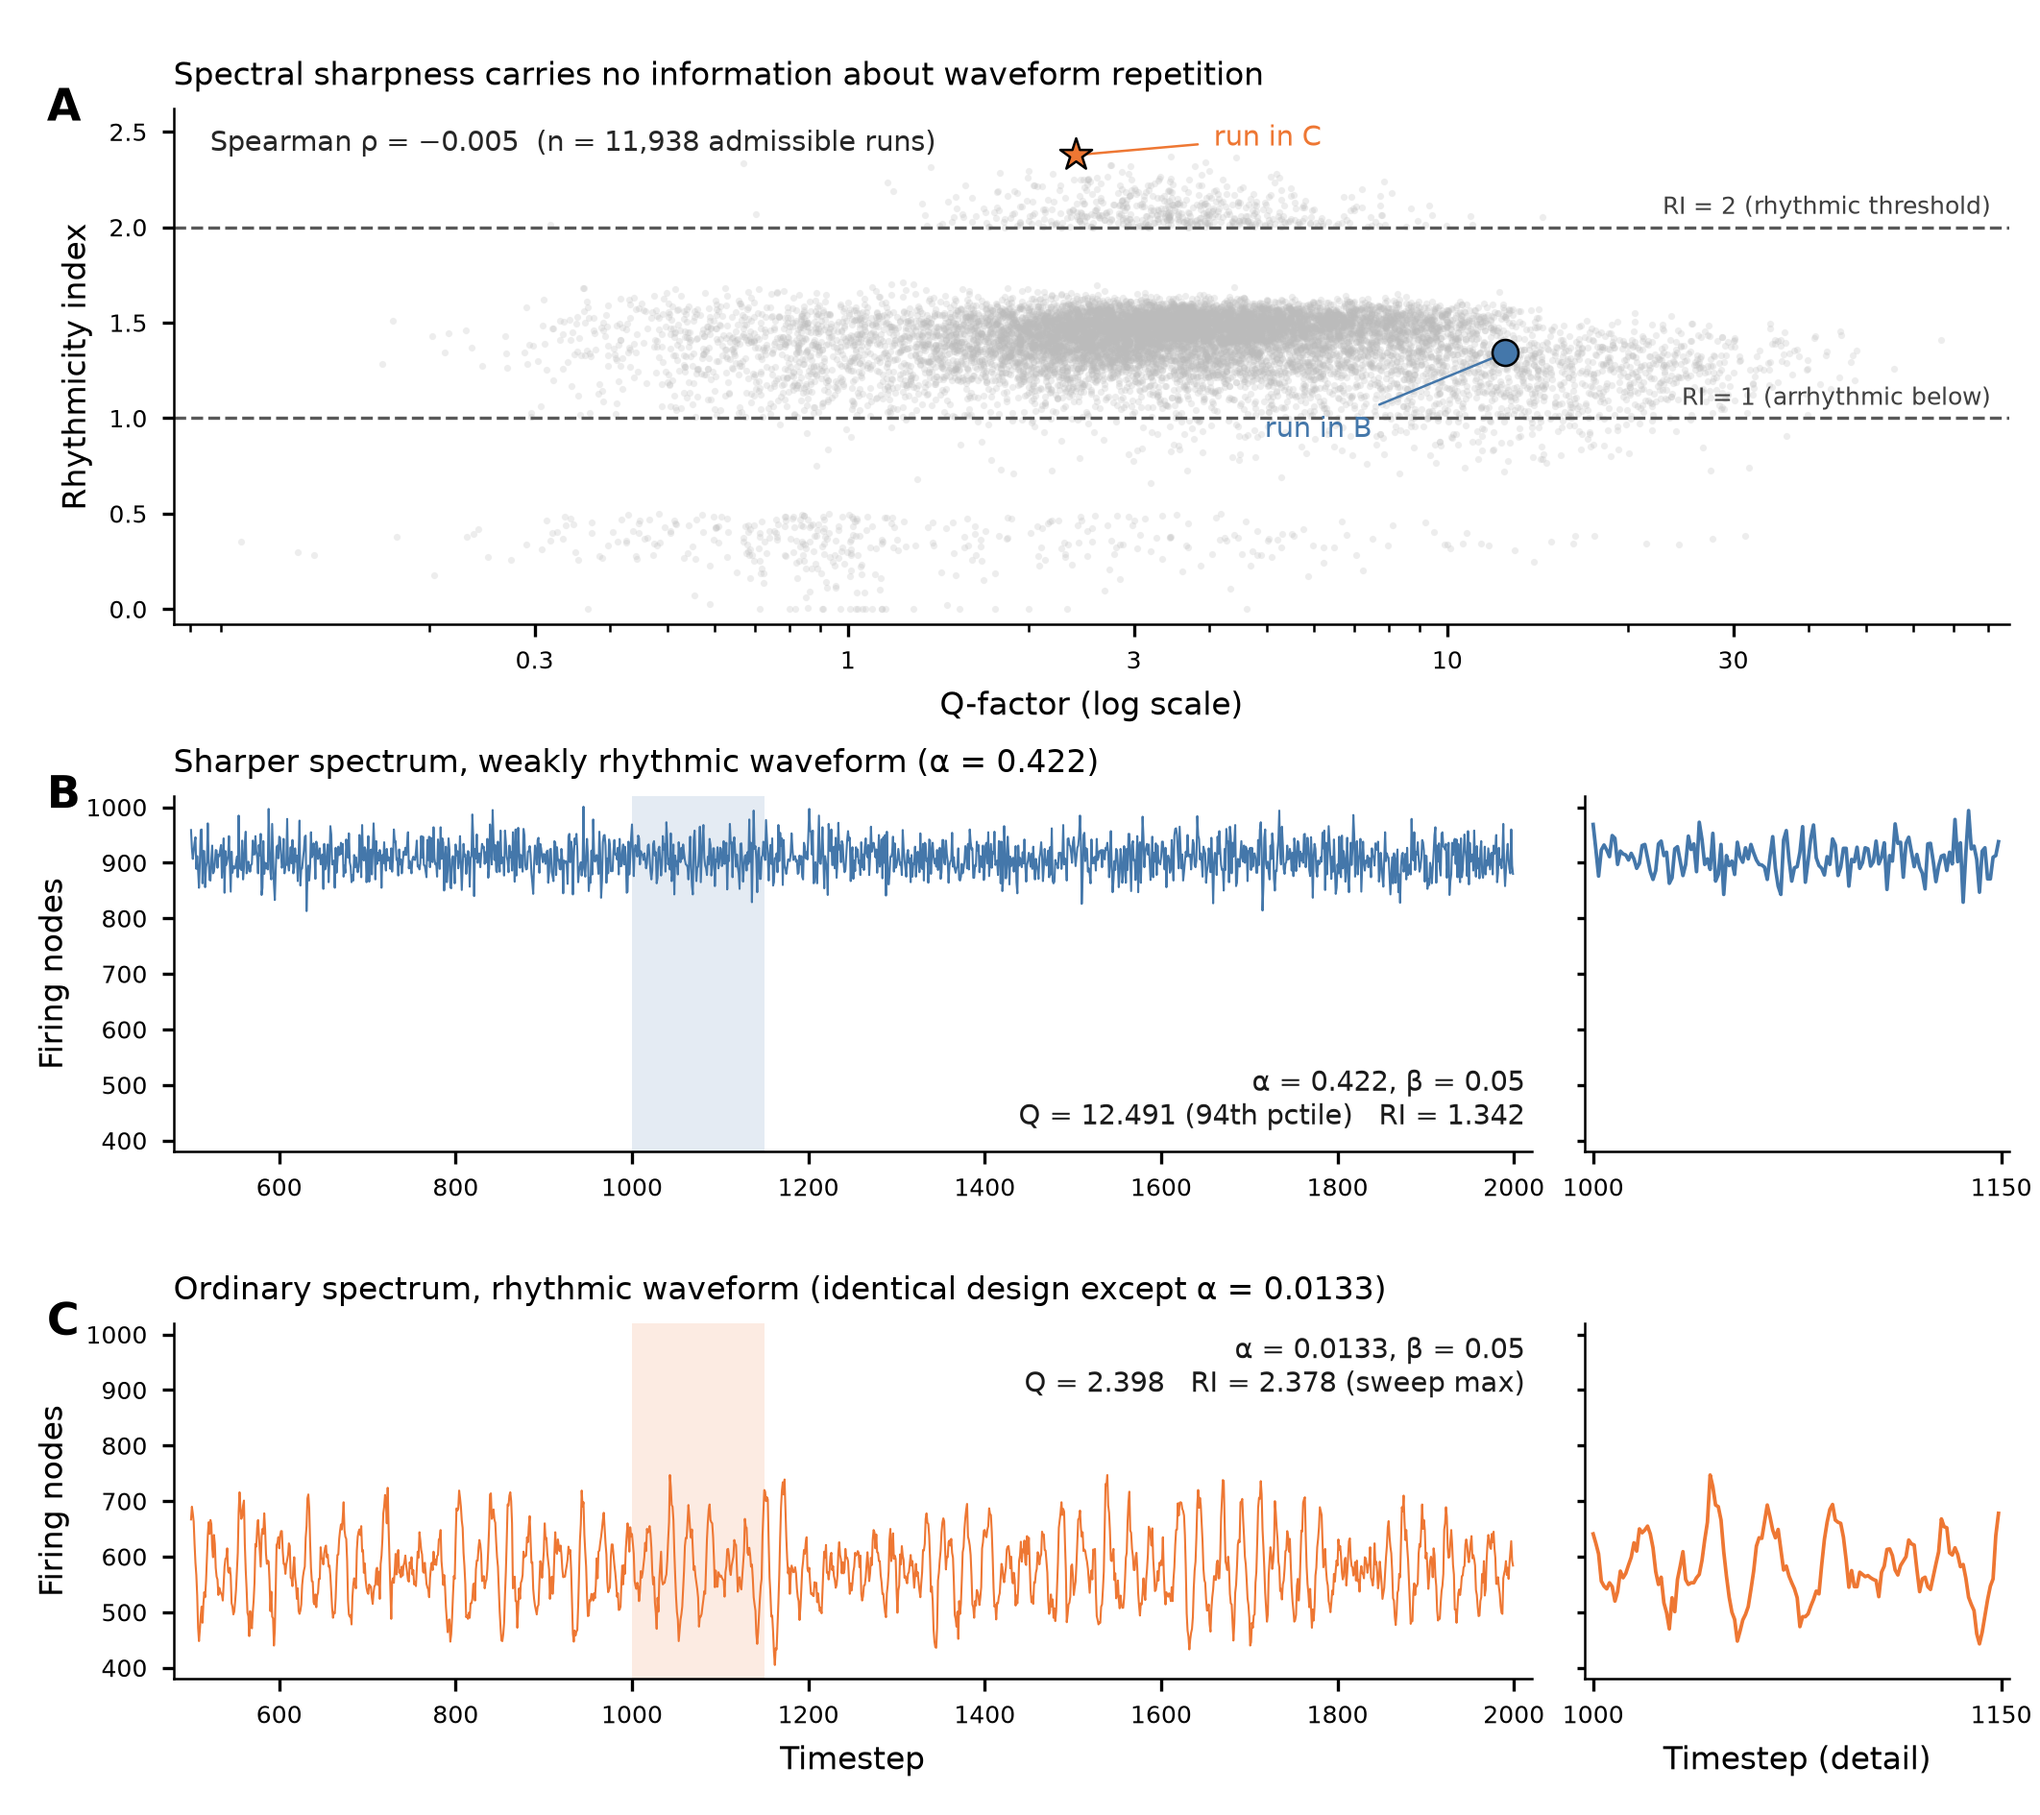
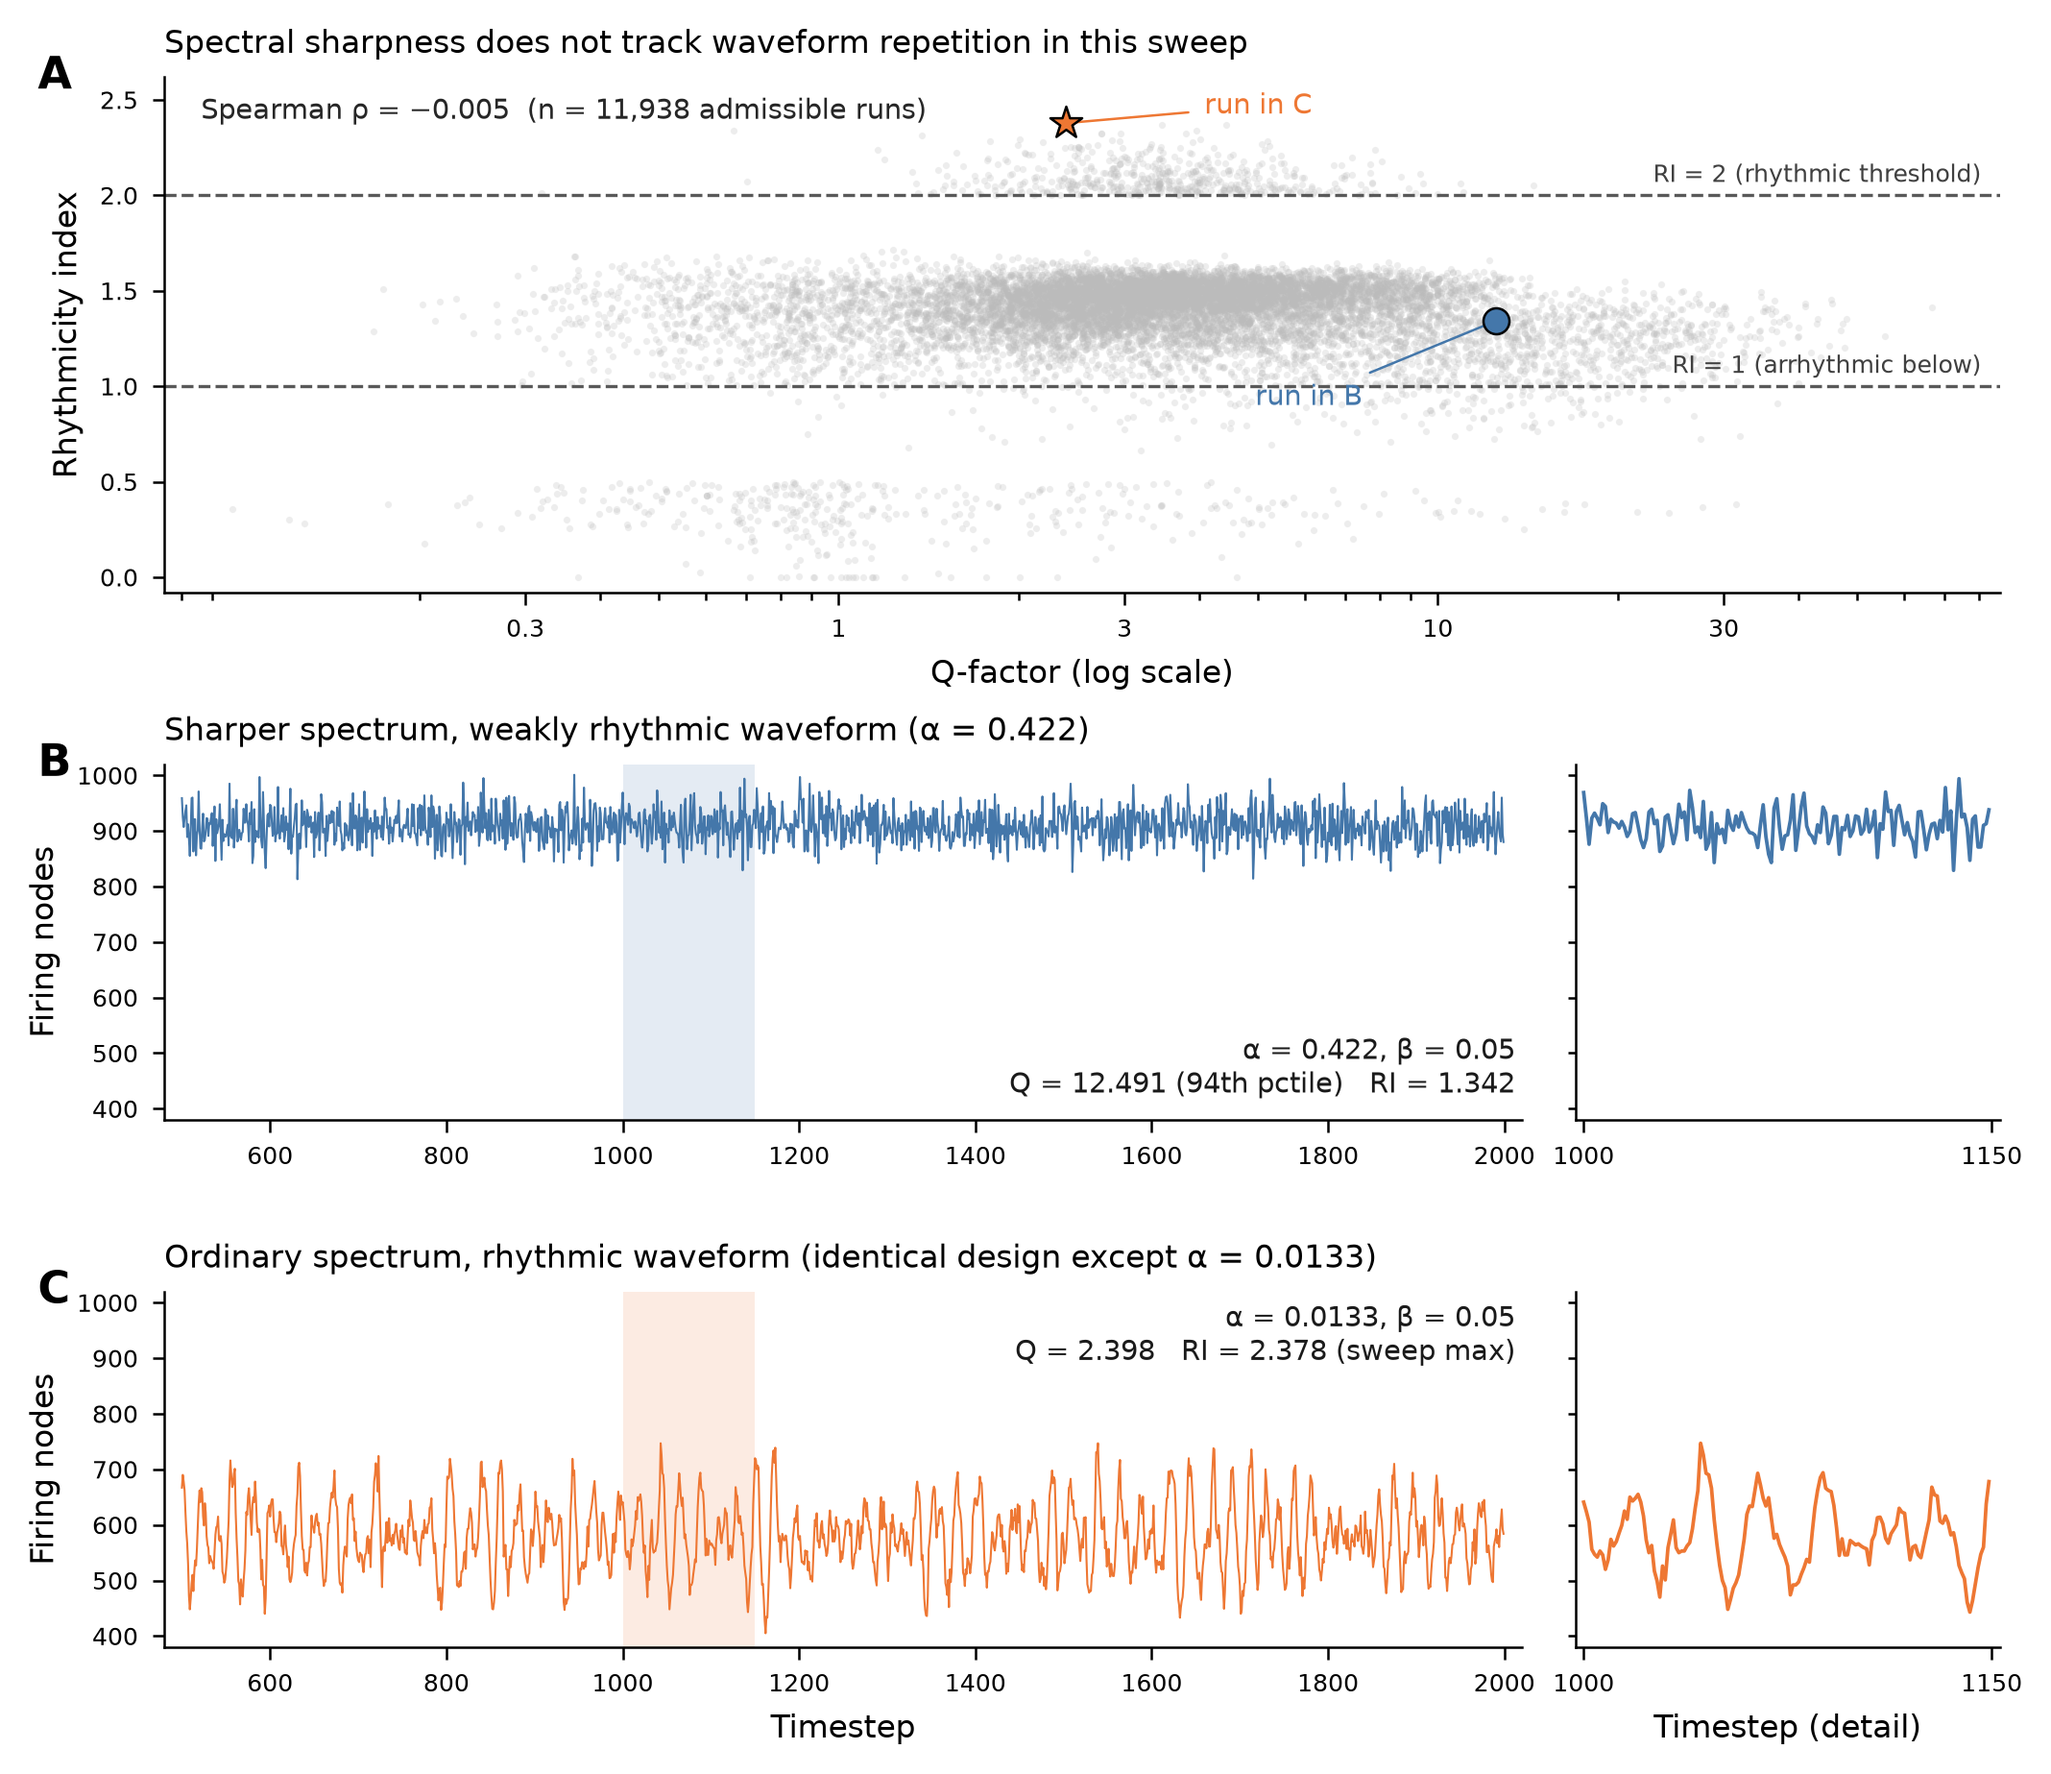
Sync repo with post-audit manuscript corrections
- Fig 3A title softened: 'carries no information about waveform repetition'
  -> 'does not track waveform repetition in this sweep' (script + PNG re-render;
  data unchanged, values re-assert against results tables)
- Fig 5 (benchmark battery) panel-A title: 'RI edges out Q' -> 'RI and Q perform
  comparably' (AUC CIs overlap; PNG re-render from shipped results CSV)
- Fig S1 (visual audit grid) suptitle: ordering concordance corrected to
  0.71 (RI, ties excluded) vs 0.44 (Q, below the 0.5 chance level), recomputed
  from shipped visual_audit_results.csv
- s7_derived_axes_table.csv: t_cbarw axis re-swept centered at its true default
  0.25 (was miscentered at 0.20); no conclusion changes
- sensitivity_mf18.py: derived-axes sweep block added so the shipped table
  regenerates end-to-end; EEG input path fixed to the shipped
  s4_eeg_per_epoch.csv.gz
- CAPTIONS.md Fig 3 wording aligned with the corrected manuscript

diff --git a/analysis/sensitivity_mf18.py b/analysis/sensitivity_mf18.py
@@ -20,6 +20,11 @@ RI = 2; exemplar (run_seed 51802) RI >= 2 and above comparison (run_seed 54202).
 Outputs: results/s7_sensitivity_table.csv, results/s7_derived_axes_table.csv,
 results/s7_joint_perturbation.csv, results/s7_tolerance_summary.csv,
 figures/fig_s7_sensitivity.png.
+
+Note: the shipped s7_sensitivity_table.csv and s7_joint_perturbation.csv carry
+additional diagnostic columns produced by the full project pipeline; this script
+regenerates the core columns (identical values where they overlap). The shipped
+s7_derived_axes_table.csv matches this script's output exactly.
 """
 import numpy as np
 import pandas as pd
@@ -64,7 +69,7 @@ def ordering_ok(thr):
 
 def main():
     per_run = pd.read_csv("results/per_run_results.csv.gz")
-    eeg = pd.read_csv("results/s4_per_epoch_full.csv")
+    eeg = pd.read_csv("results/s4_eeg_per_epoch.csv.gz")
 
     sim = per_run[per_run["admissible"] == True].copy()
     c_s, cb_s, r_s = (sim[k].to_numpy() for k in ("c", "cbar", "r"))
@@ -114,6 +119,34 @@ def main():
                              ordering_valid=ordering_ok(thr), **eo, **so,
                              holds=holds(eo, so)))
     pd.DataFrame(rows).to_csv("results/s7_sensitivity_table.csv", index=False)
+
+    # Derived axes: free the two curve-coherence thresholds (published derivation
+    # t_cbar = max(0.35, t_cw + 0.05) = 0.35, t_cbarw = max(0.20, t_cw - 0.05) = 0.25)
+    # and sweep each around ITS OWN default value.
+    DERIVED = dict(t_cbar=0.35, t_cbarw=0.25)
+    drows = []
+    for const, dflt in DERIVED.items():
+        for m in np.round(np.arange(0.50, 1.5001, 0.05), 2):
+            thr = dict(DEFAULTS)
+            kw = {const: round(dflt * m, 6)}
+            d = prim.assign(RI=ri_param(prim["c_v1"], prim["cbar_v1"],
+                                        prim["r_v1"], **thr, **kw))
+            subj = (d.groupby(["subject", "condition"])["RI"]
+                     .mean().unstack().dropna())
+            dv = subj["EC"] - subj["EO"]
+            t, p = st.ttest_rel(subj["EC"], subj["EO"])
+            ri = ri_param(c_s, cb_s, r_s, **thr, **kw)
+            lab = np.where(ri >= 2, 2, np.where(ri >= 1, 1, 0))
+            drows.append(dict(constant=const, default=dflt, multiplier=m,
+                              value=kw[const], ordering_valid=ordering_ok(thr),
+                              dz=dv.mean() / dv.std(ddof=1), p=p,
+                              n_up=int((dv > 0).sum()),
+                              rho_Q_RI=float(st.spearmanr(Q_s, ri).statistic),
+                              top1_frac_below2=float((ri[topmask] < 2).mean()),
+                              frac_label_changed=float((lab != lab0).mean()),
+                              exemplar_RI=float(ri[i_ex]),
+                              comparison_RI=float(ri[i_cmp])))
+    pd.DataFrame(drows).to_csv("results/s7_derived_axes_table.csv", index=False)
 
     rng = np.random.default_rng(20260817)
     jrows = []

diff --git a/figures/make_fig3_contrast.py b/figures/make_fig3_contrast.py
@@ -109,7 +109,7 @@ def main():
                  fontsize=7, color="0.15")
     axA.set_xlabel("Q-factor (log scale)")
     axA.set_ylabel("Rhythmicity index")
-    axA.set_title("Spectral sharpness carries no information about waveform repetition",
+    axA.set_title("Spectral sharpness does not track waveform repetition in this sweep",
                   fontsize=8, loc="left")
     axA.set_xticks([0.3, 1, 3, 10, 30], ["0.3", "1", "3", "10", "30"])
     axA.margins(0.04)

diff --git a/figures/CAPTIONS.md b/figures/CAPTIONS.md
@@ -102,8 +102,8 @@ history.
 ## Fig 3 — Spectral sharpness vs. genuine repetition (`fig3_contrast.png`) — **and Table 1**
 
 Three panels. **A)** the joint distribution of Q and RI over the 11,938 admissible surviving
-runs (Spearman ρ = −0.005): spectral sharpness carries no rank information about waveform
-repetition, and every top-percentile-Q run falls below the rhythmic threshold. **B)** and
+runs (Spearman ρ = −0.005): in this sweep, spectral sharpness does not track waveform
+repetition in rank, and every top-percentile-Q run falls below the rhythmic threshold. **B)** and
 **C)** a single-parameter contrast: identical design (net_C, seed node 0, β = 0.05,
 replicate 2) except α. Panel annotations quote the sweep delivery table (`results/`), the
 paper's record; the script re-measures both traces at render time and asserts Q, c and the
